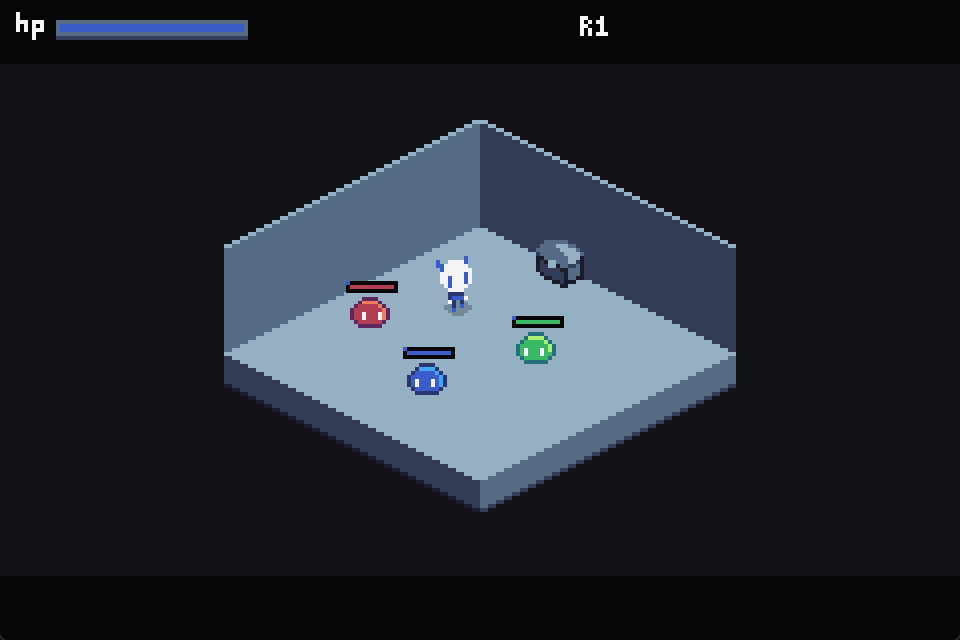
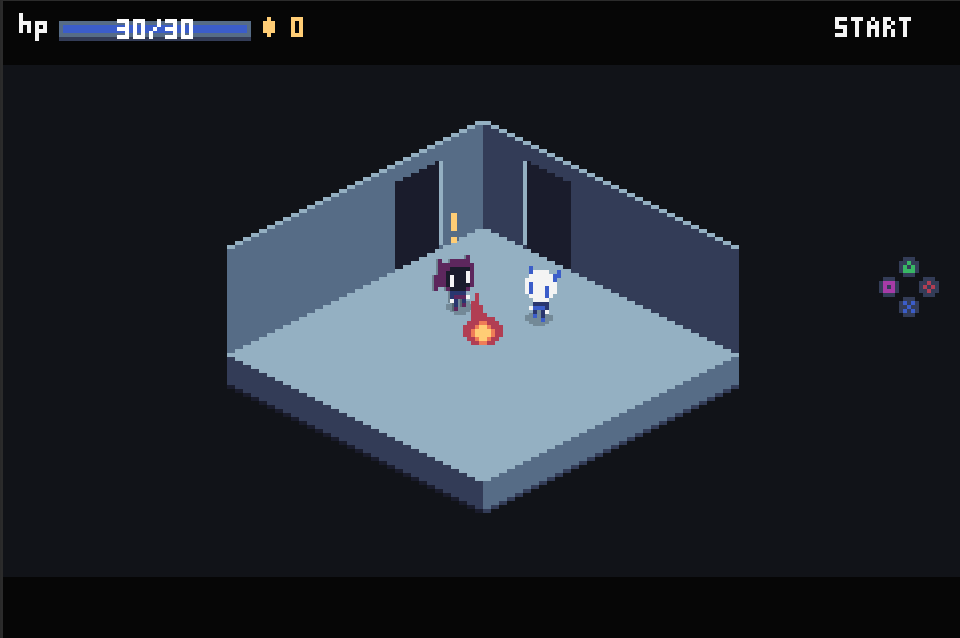
Refresh README gameplay screenshot

diff --git a/README.md b/README.md
@@ -1,6 +1,6 @@
 # TinyDemons
 
-![TinyDemons gameplay screenshot](docs/game-screenshot.png)
+![TinyDemons first gameplay room](docs/game-screenshot.png)
 
 TinyDemons is a small pixel-art isometric action prototype built in Godot. Fight colorful slime enemies, lock onto targets, dodge with a roll, collect chest rewards, and clear rooms while managing health and enemy aggro.
 
